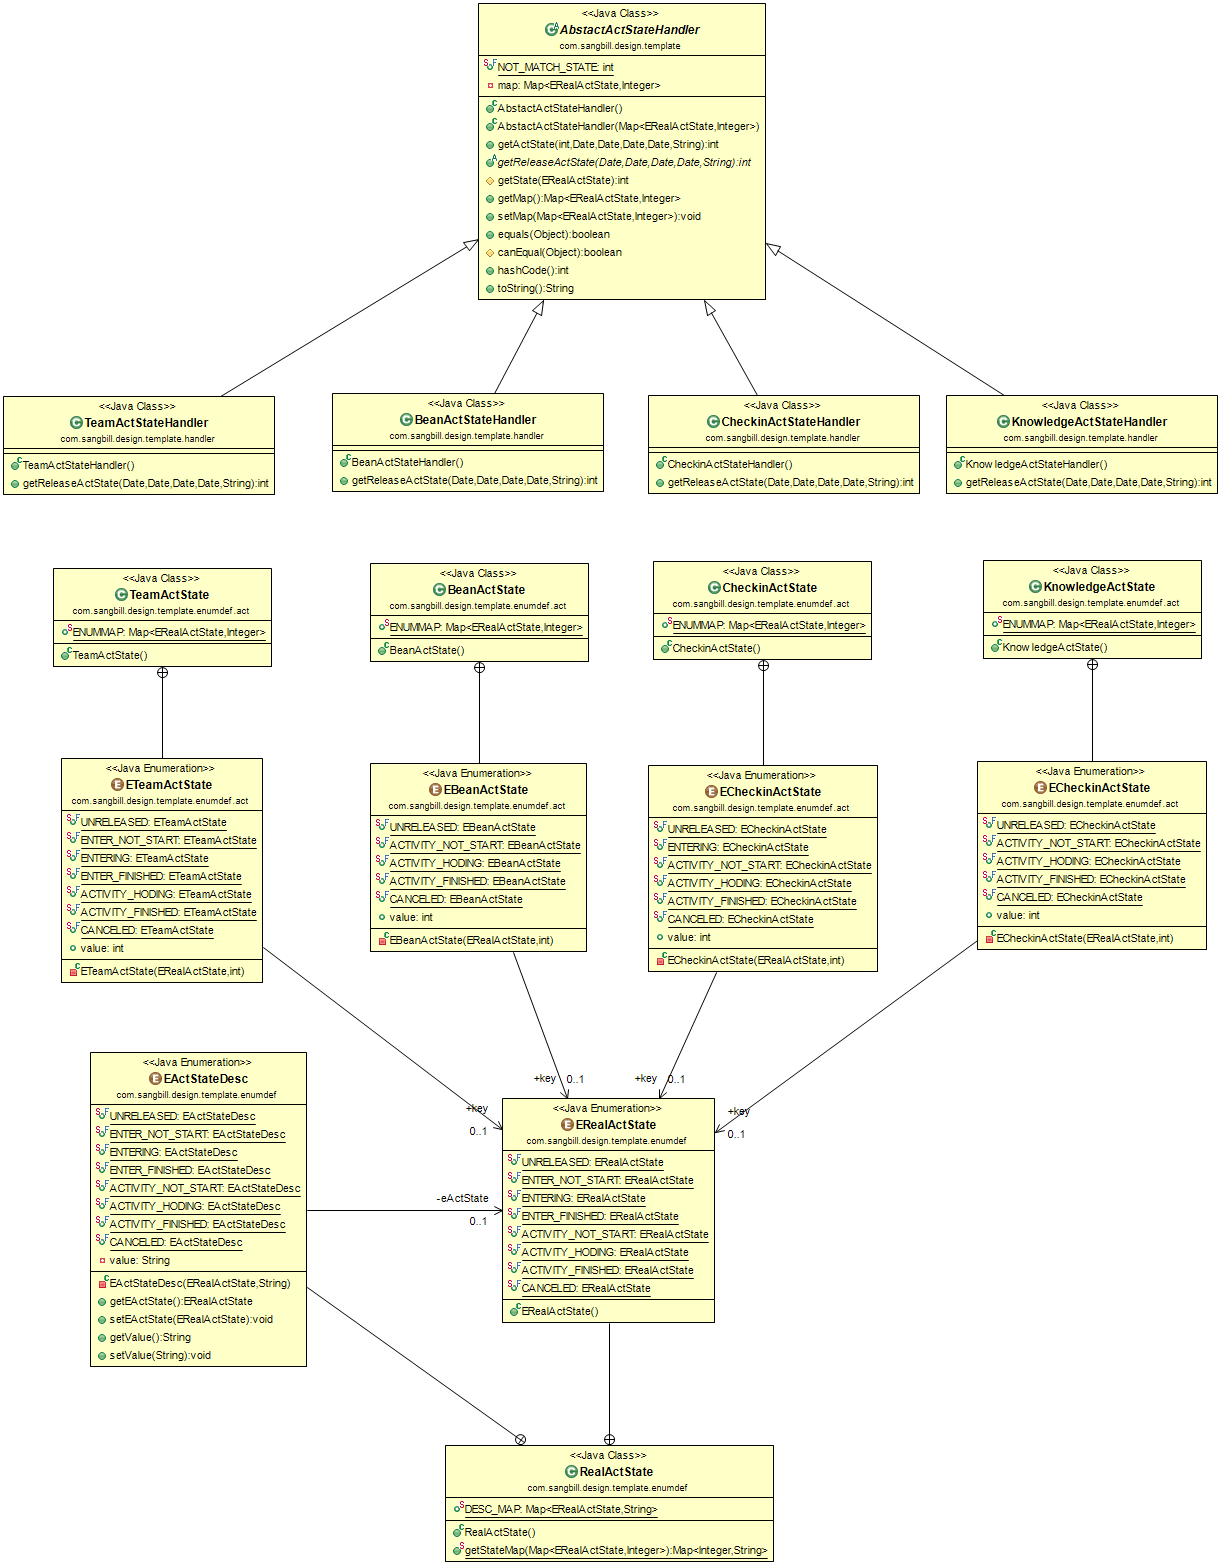
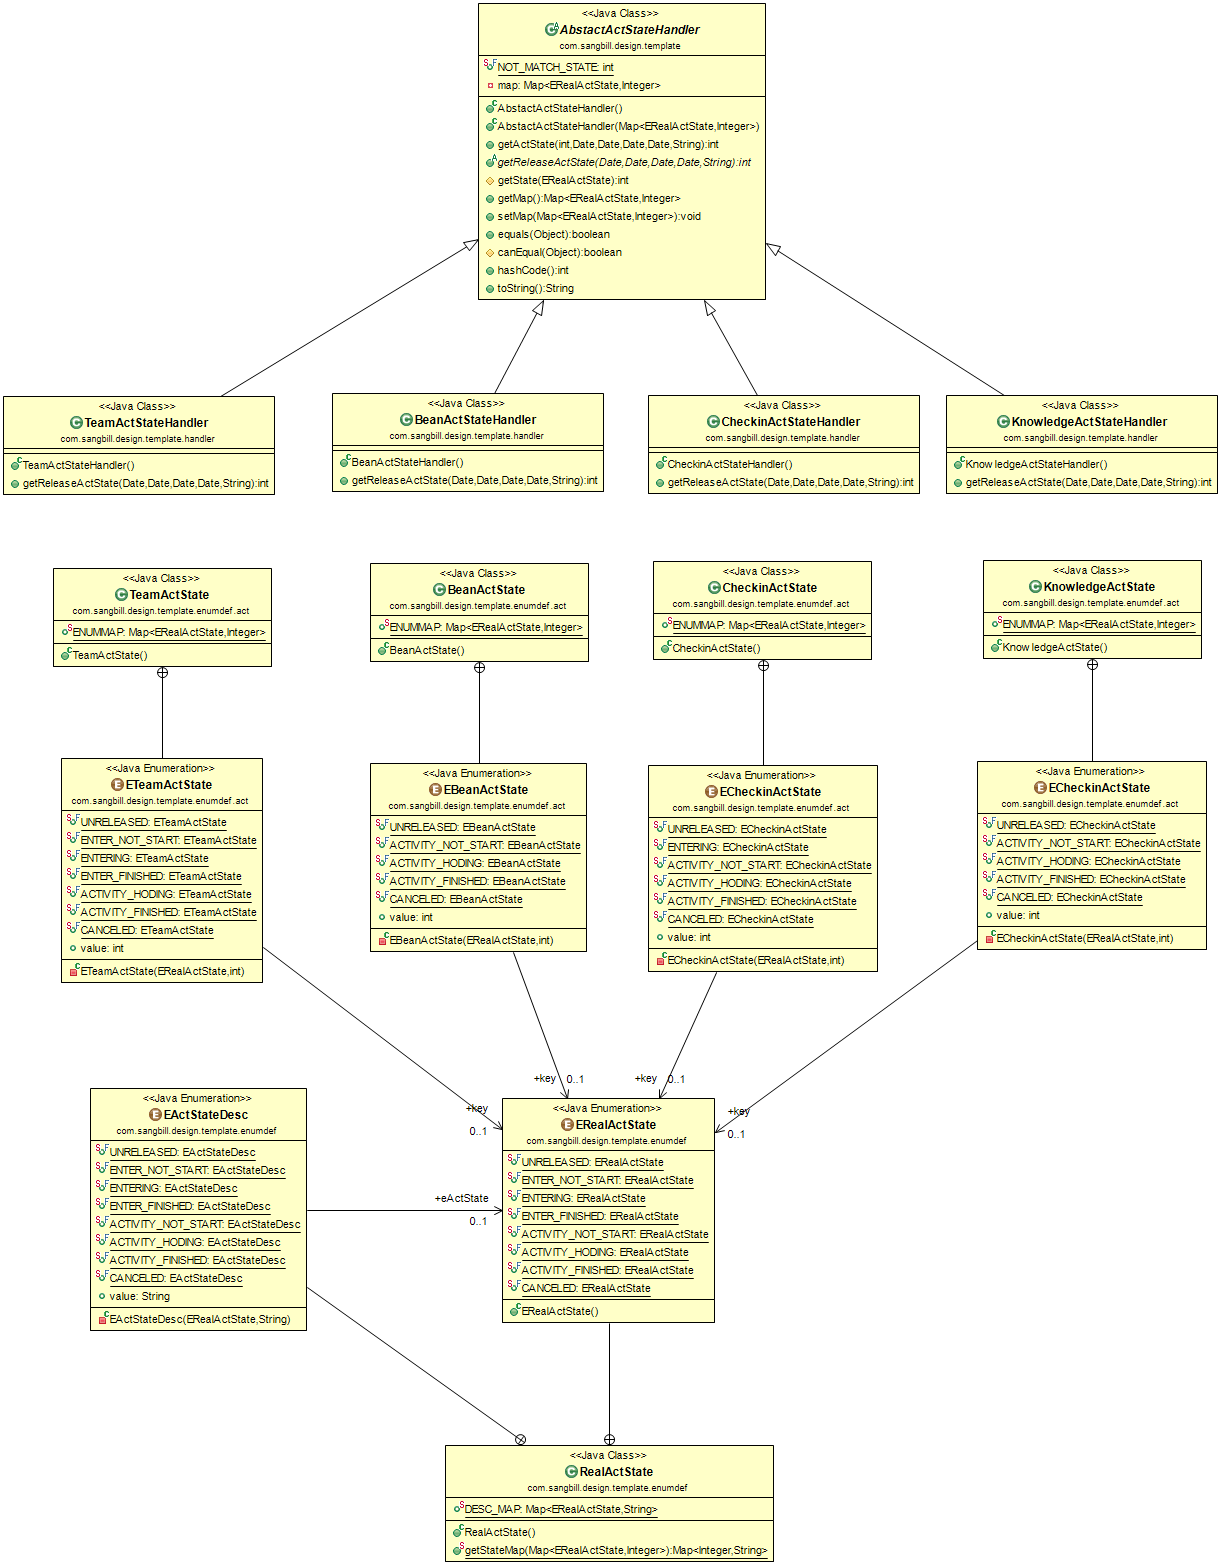
修改图片

Changed region(s): [[0.0622, 0.6748, 0.249, 0.8895]]

diff --git a/util/src/main/java/com/sangbill/design/template/enumdef/RealActState.java b/util/src/main/java/com/sangbill/design/template/enumdef/RealActState.java
@@ -28,22 +28,10 @@ public class RealActState {
 		ACTIVITY_FINISHED(ERealActState.ACTIVITY_FINISHED,"活动结束"),
 		CANCELED(ERealActState.CANCELED,"已撤回");
 
-		private ERealActState eActState;
-		private String value;
+		public ERealActState eActState;
+		public String value;
 		private EActStateDesc(ERealActState eActState, String value) {
 			this.eActState = eActState;
-			this.value = value;
-		}
-		public ERealActState getEActState() {
-			return eActState;
-		}
-		public void setEActState(ERealActState eActState) {
-			this.eActState = eActState;
-		}
-		public String getValue() {
-			return value;
-		}
-		public void setValue(String value) {
 			this.value = value;
 		}
 	}
